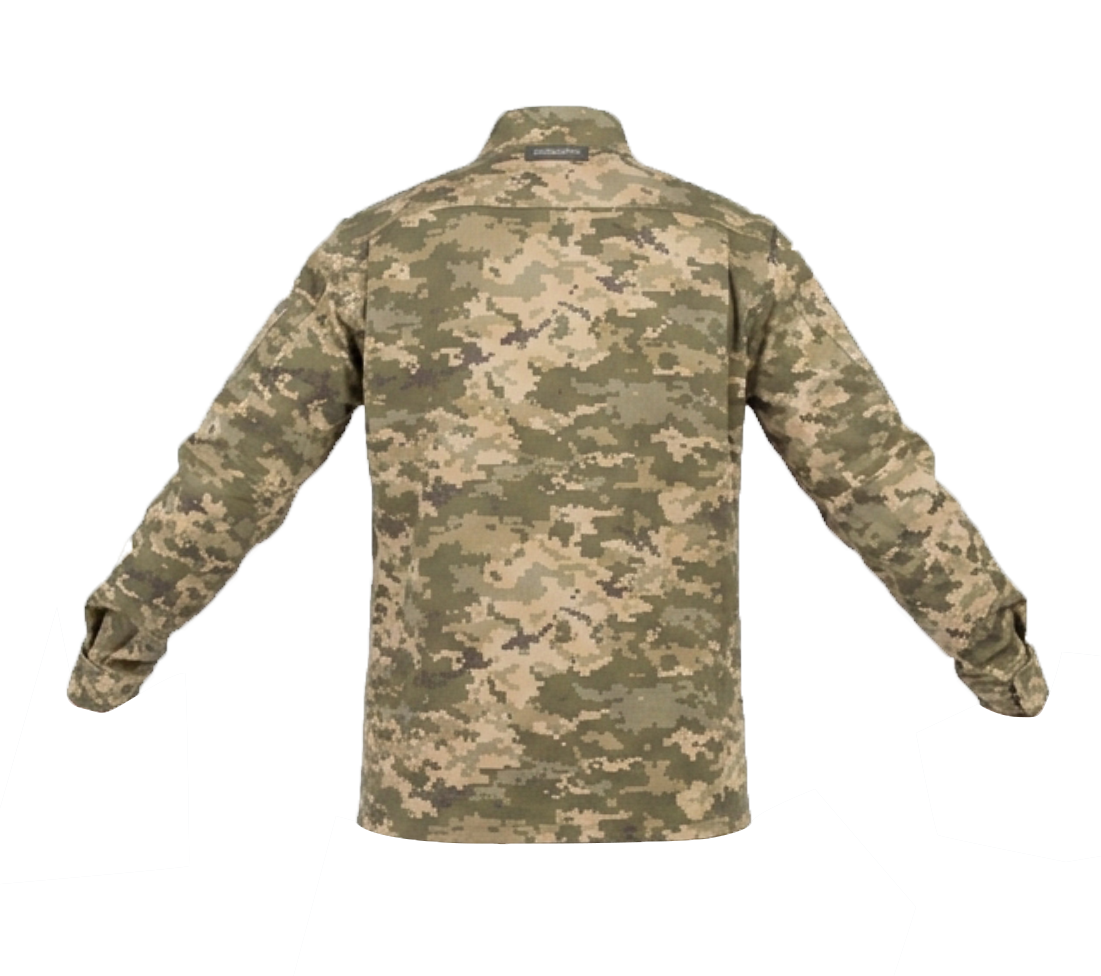
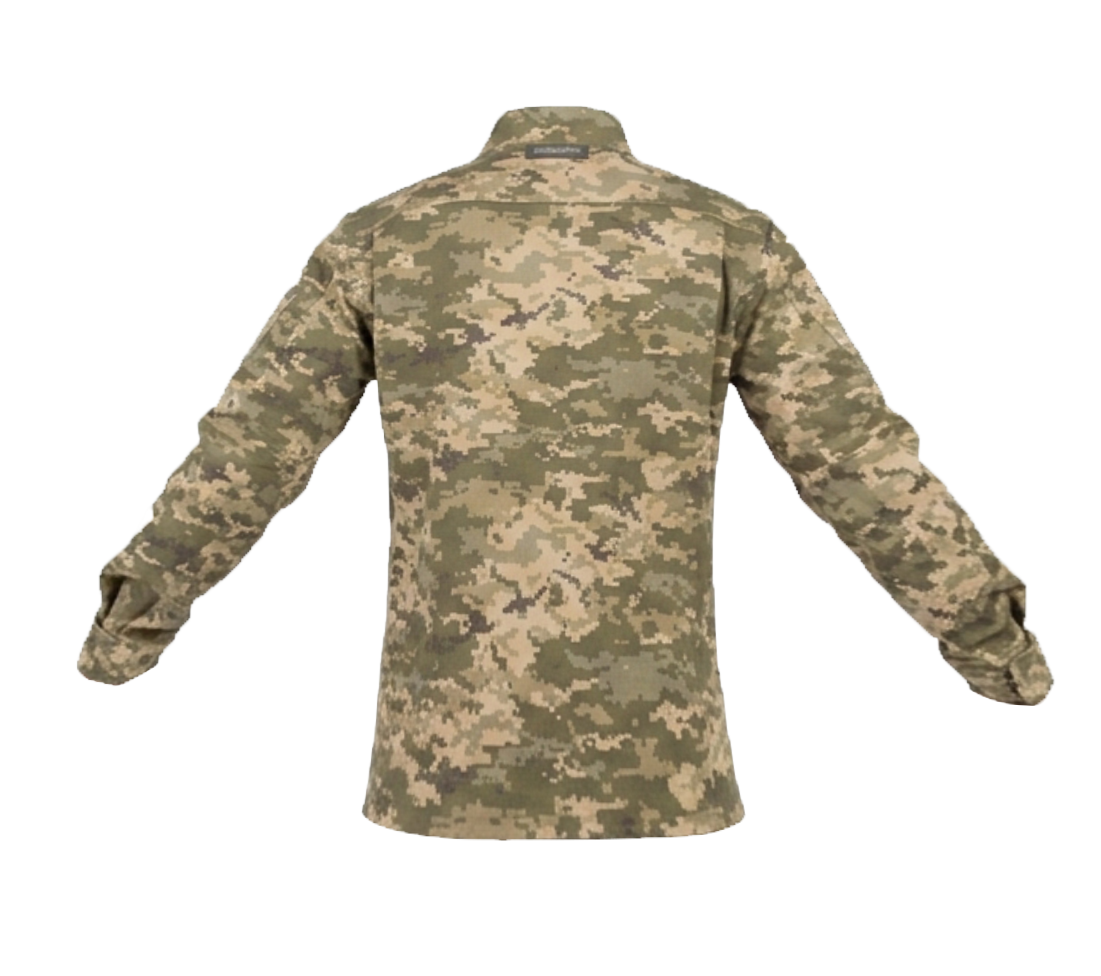
feat: add MM14 RPS belt; pick up manual calibration updates
Registers the MM14 RPS belt in the Belt slot (uncalibrated — left for
manual admin-mode tuning per request). Also captures updated jacket/
pants calibration and re-exported art done directly through the app.

Changed region(s): [[0.0618, 0.1537, 0.9573, 0.8914]]

diff --git a/data/itemTransforms.js b/data/itemTransforms.js
@@ -46,26 +46,26 @@ const ITEM_TRANSFORMS = {
   },
   "top-mm14-jacket": {
     "front": {
-      "x": 0,
-      "y": -14,
-      "scale": 0.6
+      "x": 1.3888888888888886,
+      "y": -14.469931713047947,
+      "scale": 0.5199999999999999
     },
     "rear": {
-      "x": 0,
-      "y": -14,
-      "scale": 0.6
+      "x": 1.246438746438746,
+      "y": -14.492022520071568,
+      "scale": 0.5399999999999999
     }
   },
   "bottom-mm14-uniform": {
     "front": {
-      "x": 0,
-      "y": 37,
-      "scale": 0.76
+      "x": 1.5277777777777777,
+      "y": 22.118829086814987,
+      "scale": 0.6199999999999999
     },
     "rear": {
-      "x": 0,
-      "y": 37,
-      "scale": 0.76
+      "x": 1.3503086419753085,
+      "y": 22.510438847688278,
+      "scale": 0.6399999999999999
     }
   }
 };

diff --git a/data/items.js b/data/items.js
@@ -122,6 +122,14 @@ const DEFAULT_ITEMS = {
       srcBack: "assets/Bottom/mm14_uniform_back.png",
     },
   ],
+  belt: [
+    {
+      id: "belt-mm14-rps",
+      name: "MM14 RPS",
+      src: "assets/Belt/mm14_rps_front.png",
+      srcBack: "assets/Belt/mm14_rps_back.png",
+    },
+  ],
   vest: [
     {
       id: "vest-m3mp6",
